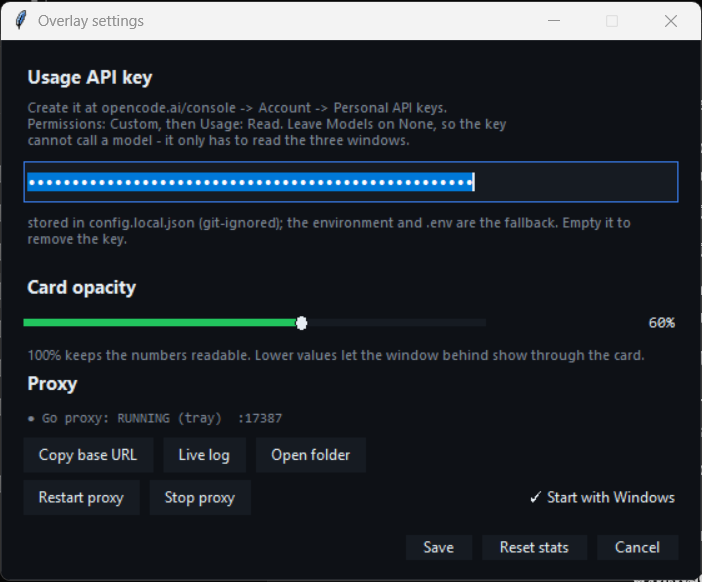
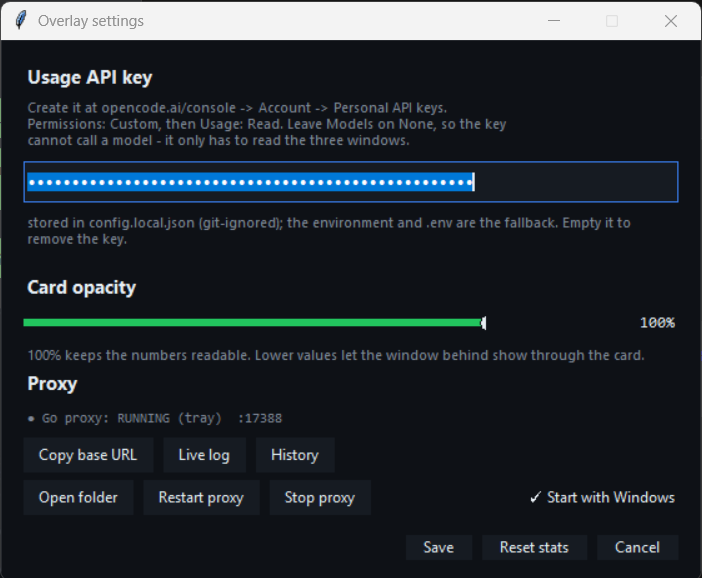
Persist the ledger during short sessions, and refresh the pictures
The per-day ledger was only written every 10 measured turns, and the tray
stops the child with TerminateProcess on Windows, so there is no signal to
save on: a short session wrote nothing and its history vanished. The proxy
now also saves whenever 30 seconds have passed, which bounds the loss to one
interval.

The card grows to 318 px: with the hint line under the plan rows ("N
responses had no usage") the last line was clipped.

All three screenshots re-captured from the current build, plus one for the
history window.

diff --git a/tray_app.py b/tray_app.py
@@ -574,7 +574,9 @@ def open_stats_overlay(ic=None, item=None):
         # inside that 1229.
         sw = root.winfo_screenwidth()
         at = saved_pos("overlay_pos") or f"+{int(sw * 0.58)}+48"
-        root.geometry(f"300x302{at}")
+        # 318, not 302: the hint line under the plan rows ("no usage key",
+        # "N responses had no usage") needs the room or it gets clipped.
+        root.geometry(f"300x318{at}")
 
         def drag_start(e):
             root._drag = (e.x_root - root.winfo_x(), e.y_root - root.winfo_y())

diff --git a/README.md b/README.md
@@ -233,8 +233,9 @@ Opacity is 100 % by default, on purpose: at 93 %, 97 % and even 99 % the bright
 text of the window behind shows through and the numbers get hard to read. Pick a
 lower value in Settings if you want the glass look and can live with that.
 
-![Stats overlay: 100% cache hit, $0.2168 saved over 5 requests, and the 5-hour,
-weekly and monthly plan meters](docs/stats-overlay.png)
+![Stats overlay: 96% cache hit, $8.41 saved over 154 requests, the 5-hour,
+weekly and monthly plan meters, and the note about responses without usage
+data](docs/stats-overlay.png)
 
 ```
   stats 10 req / 2 ses: hit=90% saved=~$0.001323
@@ -286,6 +287,9 @@ totals and the last 14 days as bars:
   hit rate            96%        95%       93%
   saved              $0.22      $1.64     $7.11
 ```
+
+![Usage history window: requests, tokens saved, hit rate and money saved for
+today, 7 days and 30 days, with the last 14 days as bars](docs/history.png)
 
 Days are local-time and kept for 400 days. The ledger starts on the day this
 version first runs — usage from before it was installed was never recorded.
